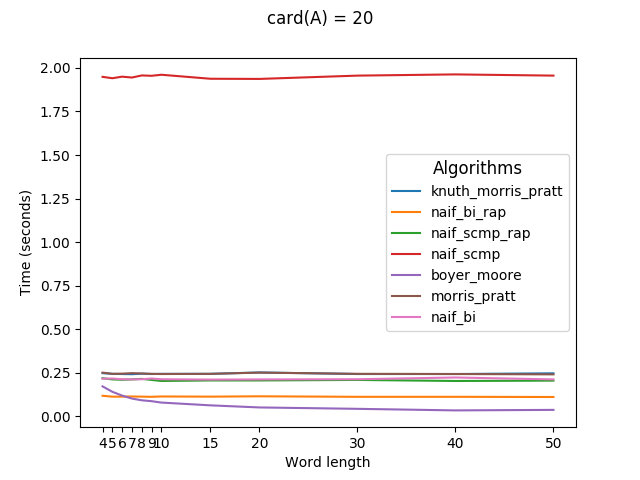
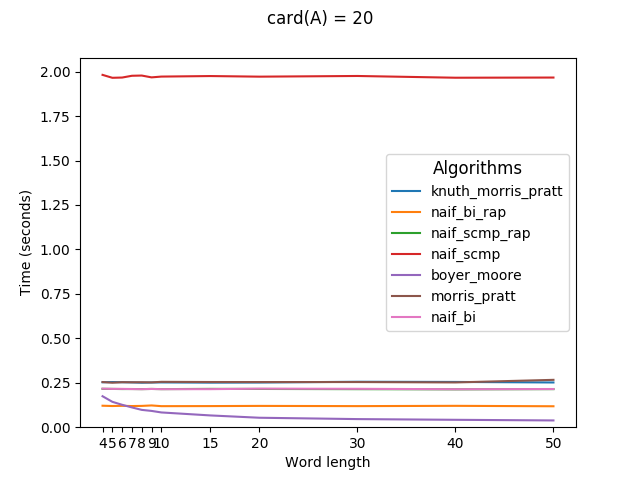
Eye candy for benchmarks

diff --git a/TP2/benchmarks/benchmark_results.py b/TP2/benchmarks/benchmark_results.py
@@ -1,1 +1,8 @@
-{'knuth_morris_pratt': {2: ([4, 5, 6, 7, 8, 9, 10, 15, 20, 30, 40, 50], [0.478, 0.473, 0.475, 0.47, 0.462, 0.466, 0.475, 0.469, 0.467, 0.465, 0.467, 0.462]), 4: ([4, 5, 6, 7, 8, 9, 10, 15, 20, 30, 40, 50], [0.416, 0.419, 0.421, 0.422, 0.415, 0.422, 0.419, 0.417, 0.415, 0.422, 0.42, 0.412]), 20: ([4, 5, 6, 7, 8, 9, 10, 15, 20, 30, 40, 50], [0.247, 0.243, 0.242, 0.241, 0.244, 0.242, 0.243, 0.243, 0.251, 0.242, 0.242, 0.246]), 70: ([4, 5, 6, 7, 8, 9, 10, 15, 20, 30, 40, 50], [0.213, 0.212, 0.213, 0.212, 0.221, 0.21, 0.216, 0.211, 0.214, 0.21, 0.212, 0.211])}, 'naif_bi_rap': {2: ([4, 5, 6, 7, 8, 9, 10, 15, 20, 30, 40, 50], [0.566, 0.579, 0.595, 0.603, 0.6, 0.61, 0.608, 0.61, 0.606, 0.606, 0.611, 0.611]), 4: ([4, 5, 6, 7, 8, 9, 10, 15, 20, 30, 40, 50], [0.317, 0.316, 0.311, 0.314, 0.313, 0.313, 0.315, 0.311, 0.315, 0.322, 0.313, 0.312]), 20: ([4, 5, 6, 7, 8, 9, 10, 15, 20, 30, 40, 50], [0.117, 0.112, 0.112, 0.113, 0.112, 0.111, 0.113, 0.112, 0.114, 0.111, 0.111, 0.11]), 70: ([4, 5, 6, 7, 8, 9, 10, 15, 20, 30, 40, 50], [0.087, 0.081, 0.085, 0.083, 0.084, 0.088, 0.085, 0.084, 0.084, 0.088, 0.083, 0.082])}, 'naif_scmp_rap': {2: ([4, 5, 6, 7, 8, 9, 10, 15, 20, 30, 40, 50], [1.228, 1.233, 1.229, 1.23, 1.233, 1.237, 1.242, 1.247, 1.239, 1.242, 1.234, 1.241]), 4: ([4, 5, 6, 7, 8, 9, 10, 15, 20, 30, 40, 50], [0.694, 0.693, 0.697, 0.694, 0.694, 0.691, 0.697, 0.681, 0.696, 0.692, 0.695, 0.695]), 20: ([4, 5, 6, 7, 8, 9, 10, 15, 20, 30, 40, 50], [0.218, 0.211, 0.209, 0.211, 0.214, 0.208, 0.202, 0.205, 0.205, 0.208, 0.202, 0.204]), 70: ([4, 5, 6, 7, 8, 9, 10, 15, 20, 30, 40, 50], [0.124, 0.125, 0.13, 0.126, 0.125, 0.122, 0.122, 0.127, 0.126, 0.121, 0.126, 0.122])}, 'naif_scmp': {2: ([4, 5, 6, 7, 8, 9, 10, 15, 20, 30, 40, 50], [1.964, 1.962, 1.965, 1.967, 1.954, 1.963, 1.952, 1.957, 1.957, 1.953, 1.948, 1.961]), 4: ([4, 5, 6, 7, 8, 9, 10, 15, 20, 30, 40, 50], [1.956, 1.943, 1.942, 1.948, 1.95, 1.954, 1.939, 1.948, 1.952, 1.956, 1.948, 1.948]), 20: ([4, 5, 6, 7, 8, 9, 10, 15, 20, 30, 40, 50], [1.949, 1.941, 1.95, 1.945, 1.957, 1.955, 1.961, 1.938, 1.937, 1.956, 1.963, 1.956]), 70: ([4, 5, 6, 7, 8, 9, 10, 15, 20, 30, 40, 50], [1.947, 1.948, 1.94, 1.951, 1.952, 1.954, 1.947, 1.947, 1.941, 1.943, 1.937, 1.954])}, 'boyer_moore': {2: ([4, 5, 6, 7, 8, 9, 10, 15, 20, 30, 40, 50], [0.381, 0.342, 0.291, 0.261, 0.232, 0.219, 0.193, 0.137, 0.102, 0.072, 0.058, 0.049]), 4: ([4, 5, 6, 7, 8, 9, 10, 15, 20, 30, 40, 50], [0.289, 0.244, 0.221, 0.2, 0.19, 0.177, 0.165, 0.13, 0.107, 0.084, 0.068, 0.053]), 20: ([4, 5, 6, 7, 8, 9, 10, 15, 20, 30, 40, 50], [0.171, 0.14, 0.118, 0.101, 0.091, 0.086, 0.078, 0.062, 0.05, 0.042, 0.033, 0.036]), 70: ([4, 5, 6, 7, 8, 9, 10, 15, 20, 30, 40, 50], [0.157, 0.121, 0.103, 0.093, 0.082, 0.074, 0.065, 0.042, 0.034, 0.028, 0.023, 0.021])}, 'morris_pratt': {2: ([4, 5, 6, 7, 8, 9, 10, 15, 20, 30, 40, 50], [0.541, 0.537, 0.54, 0.551, 0.537, 0.543, 0.542, 0.547, 0.543, 0.549, 0.551, 0.541]), 4: ([4, 5, 6, 7, 8, 9, 10, 15, 20, 30, 40, 50], [0.438, 0.433, 0.433, 0.439, 0.424, 0.43, 0.429, 0.429, 0.43, 0.437, 0.434, 0.429]), 20: ([4, 5, 6, 7, 8, 9, 10, 15, 20, 30, 40, 50], [0.25, 0.243, 0.244, 0.247, 0.245, 0.243, 0.242, 0.243, 0.25, 0.243, 0.242, 0.24]), 70: ([4, 5, 6, 7, 8, 9, 10, 15, 20, 30, 40, 50], [0.22, 0.211, 0.214, 0.213, 0.226, 0.213, 0.215, 0.21, 0.214, 0.215, 0.213, 0.212])}, 'naif_bi': {2: ([4, 5, 6, 7, 8, 9, 10, 15, 20, 30, 40, 50], [0.57, 0.58, 0.595, 0.61, 0.593, 0.602, 0.592, 0.602, 0.607, 0.601, 0.6, 0.594]), 4: ([4, 5, 6, 7, 8, 9, 10, 15, 20, 30, 40, 50], [0.386, 0.384, 0.393, 0.39, 0.384, 0.39, 0.391, 0.392, 0.392, 0.394, 0.395, 0.381]), 20: ([4, 5, 6, 7, 8, 9, 10, 15, 20, 30, 40, 50], [0.215, 0.216, 0.212, 0.211, 0.212, 0.216, 0.212, 0.21, 0.211, 0.212, 0.222, 0.211]), 70: ([4, 5, 6, 7, 8, 9, 10, 15, 20, 30, 40, 50], [0.184, 0.183, 0.185, 0.185, 0.181, 0.186, 0.183, 0.182, 0.187, 0.189, 0.182, 0.183])}}
+{'knuth_morris_pratt': {2: ([4, 5, 6, 7, 8, 9, 10, 15, 20, 30, 40, 50], [0.4844, 0.4808, 0.4824, 0.4752, 0.4724, 0.4758, 0.4756, 0.4924, 0.474, 0.4754, 0.472, 0.474]), 4: ([4, 5, 6, 7, 8, 9, 10, 15, 20, 30, 40, 50], [0.426, 0.4346, 0.431, 0.4322, 0.4232, 0.4304, 0.4436, 0.4316, 0.4348, 0.4288, 0.4304, 0.426]), 20: ([4, 5, 6, 7, 8, 9, 10, 15, 20, 30, 40, 50], [0.2528, 0.254, 0.253, 0.2522, 0.2504, 0.2516, 0.252, 0.2508, 0.2514, 0.2556, 0.2546, 0.2516]), 70: ([4, 5, 6, 7, 8, 9, 10, 15, 20, 30, 40,
+    50], [0.2198, 0.2212, 0.2206, 0.2236, 0.224, 0.2206, 0.2214, 0.2218, 0.2246, 0.2222, 0.2234, 0.226])}, 'naif_bi_rap': {2: ([4, 5, 6, 7, 8, 9, 10, 15, 20, 30, 40, 50], [0.5828, 0.603, 0.6194, 0.6416, 0.639, 0.626, 0.628, 0.6262, 0.6236, 0.6254, 0.6234, 0.6292]), 4: ([4, 5, 6, 7, 8, 9, 10, 15, 20, 30, 40, 50], [0.3246, 0.3304, 0.3252, 0.3268, 0.3274, 0.3248, 0.3278, 0.328, 0.3278, 0.3266, 0.3276, 0.3246]), 20: ([4, 5, 6, 7, 8, 9, 10, 15, 20, 30, 40, 50], [0.1208, 0.1192, 0.1202, 0.119, 0.1198,
+        0.1224, 0.1184, 0.1188, 0.1198, 0.1186, 0.1202, 0.1178]), 70: ([4, 5, 6, 7, 8, 9, 10, 15, 20, 30, 40, 50], [0.091, 0.0912, 0.0918, 0.0918, 0.0898, 0.093, 0.0898, 0.0928, 0.0894, 0.0918, 0.0896, 0.091])}, 'naif_scmp_rap': {2: ([4, 5, 6, 7, 8, 9, 10, 15, 20, 30, 40, 50], [1.252, 1.2544, 1.2534, 1.2512, 1.258, 1.253, 1.2536, 1.2698, 1.2592, 1.258, 1.2514, 1.2554]), 4: ([4, 5, 6, 7, 8, 9, 10, 15, 20, 30, 40, 50], [0.7004, 0.7014, 0.7016, 0.6996, 0.7036, 0.6986, 0.7006, 0.7016, 0.7036,
+            0.6986, 0.7008, 0.7024]), 20: ([4, 5, 6, 7, 8, 9, 10, 15, 20, 30, 40, 50], [0.2158, 0.2154, 0.2146, 0.2148, 0.2142, 0.2152, 0.2142, 0.2156, 0.2152, 0.214, 0.213, 0.2142]), 70: ([4, 5, 6, 7, 8, 9, 10, 15, 20, 30, 40, 50], [0.1296, 0.1302, 0.1292, 0.128, 0.1292, 0.129, 0.1292, 0.1296, 0.1292, 0.129, 0.1292, 0.1298])}, 'naif_scmp': {2: ([4, 5, 6, 7, 8, 9, 10, 15, 20, 30, 40, 50], [1.9996, 1.989, 1.9852, 1.9832, 1.981, 1.9832, 1.9888, 1.9814, 1.9828, 1.9922, 1.98, 1.9814]), 4: ([4, 5, 6,
+                7, 8, 9, 10, 15, 20, 30, 40, 50], [1.9744, 1.9816, 1.9774, 1.9802, 1.981, 1.9736, 1.9844, 1.9866, 1.9822, 1.9742, 1.9794, 1.973]), 20: ([4, 5, 6, 7, 8, 9, 10, 15, 20, 30, 40, 50], [1.982, 1.9656, 1.967, 1.977, 1.9782, 1.968, 1.9724, 1.9754, 1.972, 1.9758, 1.966, 1.967]), 70: ([4, 5, 6, 7, 8, 9, 10, 15, 20, 30, 40, 50], [1.974, 1.9878, 1.9822, 1.9782, 1.9726, 1.9752, 1.9722, 1.9742, 1.968, 1.9792, 1.9786, 1.9774])}, 'boyer_moore': {2: ([4, 5, 6, 7, 8, 9, 10, 15, 20, 30, 40, 50],
+                    [0.3942, 0.3464, 0.3024, 0.2724, 0.2416, 0.2252, 0.203, 0.1448, 0.1136, 0.0808, 0.0626, 0.051]), 4: ([4, 5, 6, 7, 8, 9, 10, 15, 20, 30, 40, 50], [0.292, 0.2518, 0.2286, 0.21, 0.1974, 0.1838, 0.175, 0.1364, 0.113, 0.0866, 0.0726, 0.0614]), 20: ([4, 5, 6, 7, 8, 9, 10, 15, 20, 30, 40, 50], [0.1742, 0.1428, 0.126, 0.1112, 0.0974, 0.0916, 0.083, 0.0662, 0.0532, 0.0456, 0.0416, 0.038]), 70: ([4, 5, 6, 7, 8, 9, 10, 15, 20, 30, 40, 50], [0.1586, 0.1286, 0.1112, 0.0954, 0.0852,
+                        0.0788, 0.07, 0.051, 0.042, 0.0326, 0.0252, 0.0244])}, 'morris_pratt': {2: ([4, 5, 6, 7, 8, 9, 10, 15, 20, 30, 40, 50], [0.5522, 0.5502, 0.5562, 0.563, 0.5542, 0.5542, 0.5548, 0.5568, 0.5556, 0.5604, 0.557, 0.5526]), 4: ([4, 5, 6, 7, 8, 9, 10, 15, 20, 30, 40, 50], [0.4382, 0.4418, 0.4396, 0.4416, 0.442, 0.443, 0.438, 0.436, 0.4426, 0.439, 0.4406, 0.4396]), 20: ([4, 5, 6, 7, 8, 9, 10, 15, 20, 30, 40, 50], [0.254, 0.2502, 0.2532, 0.2526, 0.253, 0.252, 0.2552, 0.2542, 0.254,
+                            0.254, 0.2518, 0.2664]), 70: ([4, 5, 6, 7, 8, 9, 10, 15, 20, 30, 40, 50], [0.2214, 0.2168, 0.2172, 0.214, 0.215, 0.215, 0.2164, 0.2174, 0.2164, 0.2148, 0.214, 0.217])}, 'naif_bi': {2: ([4, 5, 6, 7, 8, 9, 10, 15, 20, 30, 40, 50], [0.5684, 0.585, 0.5954, 0.6018, 0.6026, 0.6048, 0.604, 0.607, 0.6008, 0.6022, 0.5994, 0.6022]), 4: ([4, 5, 6, 7, 8, 9, 10, 15, 20, 30, 40, 50], [0.3884, 0.3926, 0.3904, 0.392, 0.3906, 0.3614, 0.3935, 0.3974, 0.3914, 0.391, 0.391, 0.3892]), 20: ([4, 5, 6, 7, 8, 9, 10, 15, 20, 30, 40, 50], [0.2168, 0.2156, 0.2156, 0.2146, 0.214, 0.2152, 0.214, 0.214, 0.2168, 0.216, 0.2136, 0.2148]), 70: ([4, 5, 6, 7, 8, 9, 10, 15, 20, 30, 40, 50], [0.1862, 0.1872, 0.1856, 0.1848, 0.1864, 0.1868, 0.186, 0.1856, 0.1858, 0.1854, 0.1856, 0.1862])}}

diff --git a/TP2/benchmark.py b/TP2/benchmark.py
@@ -1,6 +1,9 @@
 #!/usr/bin/python3
 
 import os, argparse, subprocess
+from tqdm import tqdm, trange
+
+BAR_FMT = '{desc}: [{percentage:3.0f}%] |{bar}| [{n_fmt}/{total_fmt}]'
 
 def define_constants(**kwargs):
     global NB_ITER, CARD, LENGTHS
@@ -8,6 +11,12 @@ def define_constants(**kwargs):
     NB_ITER = kwargs['nb_iter']
     CARD = kwargs['card']
     LENGTHS = kwargs['lengths']
+
+def bar(collection, desc, pos):
+    return tqdm(collection, bar_format=BAR_FMT, position=pos, mininterval=0, miniters=1, dynamic_ncos=True, desc=desc.ljust(20))
+
+def rbar(num, desc, pos):
+    return bar(range(num), desc, pos)
 
 def ensure_dir_exists(dirname):
     if os.path.isdir(dirname):
@@ -57,7 +66,7 @@ def enumerate_data_files(text_fmt='data/texte_{cd}',
             data_wd[lg] = words_fmt.format(cd=cd, lg=lg)
     return data
 
-def time_alg_card(alg, card_files):
+def time_alg_card(alg, card, card_files):
     x = []
     y = []
 
@@ -66,43 +75,44 @@ def time_alg_card(alg, card_files):
     text = card_files['text']
     words = card_files['words']
 
-    print('     + Word length: ', end='')
+    with bar(words.items(), desc='Character count {}'.format(card), pos=2) as t1:
+        for (lg, word) in t1:
+            time_total = 0.0
+            with rbar(NB_ITER, desc='Word length {}'.format(lg), pos=3) as t2:
+                for it in t2:
+                    time_total += time_command(alg_file, word, text, '-q')
+            time_total /= NB_ITER
+            time_total = round(time_total, 5)
 
-    for (lg, word) in words.items():
-        time_total = 0.0
-        print('...', end='', flush=True)
-        for it in range(NB_ITER):
-            time_total += time_command(alg_file, word, text, '-q')
-        time_total /= NB_ITER
-        time_total = round(time_total, 5)
+#            print('     + Word length: {}'.format(lg))
 
-        print('\b\b\b', lg, ', ', sep='', end='', flush=True)
-
-        x.append(lg)
-        y.append(time_total)
-
-    print('\b\b ')
+            x.append(lg)
+            y.append(time_total)
 
     return (x, y)
 
 def time_alg(alg, files):
     alg_times = {}
 
-    for (card, card_files) in files.items():
-        print('   - Character count:', card)
+    with bar(files.items(), desc='Algorithm {}'.format(alg['name']), pos=1) as t:
+        for (card, card_files) in t:
+#            print('   - Character count:', card)
 
-        alg_times[card] = time_alg_card(alg, card_files)
+            alg_times[card] = time_alg_card(alg, card, card_files)
+        t.clear()
 
     return alg_times
 
 def timeall(algs, data):
     times = {}
 
-    for alg in algs:
-        alg_name = alg['name']
-        print(' * Algorithm:', alg_name)
+    with bar(algs, desc="Benchmarking...", pos=0) as t:
+        for alg in t:
+            alg_name = alg['name']
+#            print(' * Algorithm:', alg_name)
 
-        times[alg_name] = time_alg(alg, data)
+            times[alg_name] = time_alg(alg, data)
+        t.clear()
 
     return times
 
@@ -132,6 +142,7 @@ def plot_card(plt, algs, card, times):
 
         plt.plot(alg_times[0], alg_times[1], label=alg_name)
 
+    plt.ylim(bottom=0.0)
     plt.legend(title='Algorithms', title_fontsize=12)
 
     plt.suptitle('card(A) = {}'.format(card))
